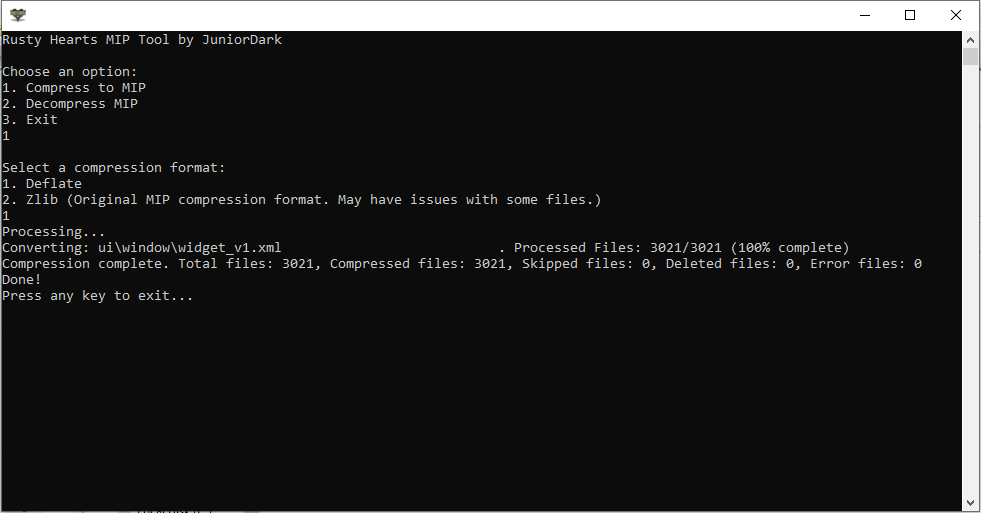
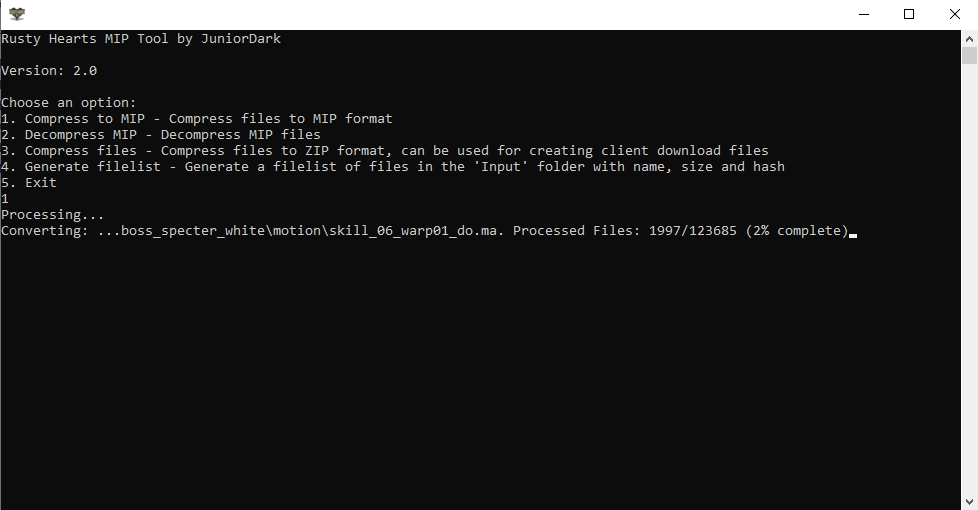
Update README.md

Changed region(s): [[0.0, 0.1176, 0.9509, 0.5882], [0.0, 0.0, 1.0, 1.0], [0.0, 0.0, 0.3067, 0.0882]]

diff --git a/README.md b/README.md
@@ -5,25 +5,30 @@
 
 A c# command-line tool for compressing and decompressing Rusty Hearts Patch files (.MIP).
 
+## Preview
+![image](preview.png)
+   
+![image](size.png)
+
 ## Getting Started
 To get started with this tool, simply download the latest [release](https://github.com/JuniorDark/RustyHearts-MIPTool/releases/latest) from the GitHub repository. 
 
-## Compression Formats
-The Rusty Hearts MIP Tool supports two compression formats:
-- **Deflate**: Main format. Used by the [Rusty Hearts Launcher](https://github.com/JuniorDark/RustyHearts-Launcher)
-- **Zlib**: Legacy support. The original Rusty Hearts MIP compression format. May have issues with some files. Work with the official MPatcher. Dont work with [Rusty Hearts Launcher](https://github.com/JuniorDark/RustyHearts-Launcher)    
-   
 ## Usage
 1. Ensure that the input files to be compressed/decompressed are located in the "Input" folder within the program directory.
 2. Run the program.
 3. Choose one of the following options:
-   - **1. Compress to MIP**: Program will compress the input files to MIP format.
-   - **2. Decompress MIP**: Program will decompress the input files from MIP format.
-   - **3. Exit**: Quit the program.
-4. The resulting compressed/decompressed files will be located in the "Output" folder within the program directory.
+   - **1. Compress to MIP**: Compress files to MIP format.
+   - **2. Decompress MIP**:  Decompress MIP files.
+   - **3. Compress files**: Compress files to ZIP format, can be used for creating client download files.
+   - **4. Generate filelist** - Generate a filelist of files in the 'Input' folder with name, size and hash
+   - **5. Exit**: Quit the program.
+4. The resulting files will be located in the "Output" folder within the program directory.
 
 ### Client patch
-You can place the MIP files in the `patch` directory of the [Rusty Hearts API](https://github.com/JuniorDark/RustyHearts-API) to patch the client using the [Rusty Hearts Launcher](https://github.com/JuniorDark/RustyHearts-Launcher).
+Place the MIP files and filelist in the `patch` directory of the [Rusty Hearts API](https://github.com/JuniorDark/RustyHearts-API) to patch the client using the [Rusty Hearts Launcher](https://github.com/JuniorDark/RustyHearts-Launcher).
+
+### Client ZIP files
+Place the ZIP files and filelist in the `download/client` directory of the [Rusty Hearts API](https://github.com/JuniorDark/RustyHearts-API) to download the client using the [Rusty Hearts Launcher](https://github.com/JuniorDark/RustyHearts-Launcher).
 
 ## Prerequisites for Building Locally/Development
 The tool is built in .NET 7 and as such, the packages listed below are required to create a local and development build of the tool. Furthermore, it uses many submodules and packages outside of this, which will automatically be loaded when the user sets up a local environment of the application.
@@ -34,11 +39,6 @@ The tool is built in .NET 7 and as such, the packages listed below are required 
 ## System Requirements for Ready-to-use build
 * OS: Windows 10 1809 Update (build 17763) or later / Windows 11 (Any builds)
 * Architecture: x64/AMD64
-
-## Preview
-![image](preview.png)
-   
-![image](size.png)
 
 ## License
 This project is licensed under the terms found in [`LICENSE-0BSD`](LICENSE).
